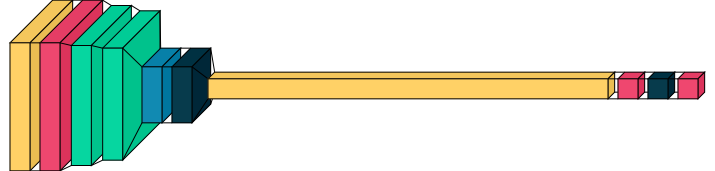
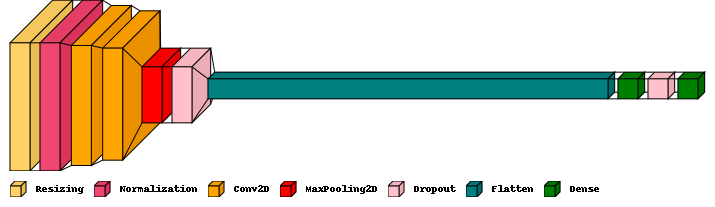
Updating Architecture diagram

diff --git a/CNNExample.py b/CNNExample.py
@@ -210,9 +210,9 @@ train_ds = spectrogram_ds
 val_ds = preprocess_dataset(val_files)
 test_ds = preprocess_dataset(test_files)
 
-batch_size = 128
-train_ds = train_ds.batch(batch_size)
-val_ds = val_ds.batch(batch_size)
+
+train_ds = train_ds.batch(565)
+val_ds = val_ds.batch(121)
 
 train_ds = train_ds.cache().prefetch(AUTOTUNE)
 val_ds = val_ds.cache().prefetch(AUTOTUNE)
@@ -252,7 +252,7 @@ model.compile(
     metrics=['accuracy'],
 )
 
-EPOCHS = 100
+EPOCHS = 150
 history = model.fit(
     train_ds,
     validation_data=val_ds,
@@ -269,7 +269,7 @@ color_map[layers.MaxPooling2D]['fill'] = 'red'
 color_map[layers.Dense]['fill'] = 'green'
 color_map[layers.Flatten]['fill'] = 'teal'
 
-visualkeras.layered_view(model, legend=True, color_map=color_map).show()
+visualkeras.layered_view(model, legend=True, color_map=color_map, to_file='CNNArchitecture.png').show()
 
 metrics = history.history
 plt.plot(history.epoch, metrics['loss'], metrics['val_loss'])

diff --git a/LSTM.py b/LSTM.py
@@ -264,7 +264,7 @@ history = model.fit(
 )
 
 # visualkeras.layered_view(model, to_file='output.png').show() # write and show
-model.save("lstm.h5")
+# model.save("lstm.h5")
 metrics = history.history
 plt.plot(history.epoch, metrics['loss'], metrics['val_loss'])
 plt.legend(['loss', 'val_loss'])
